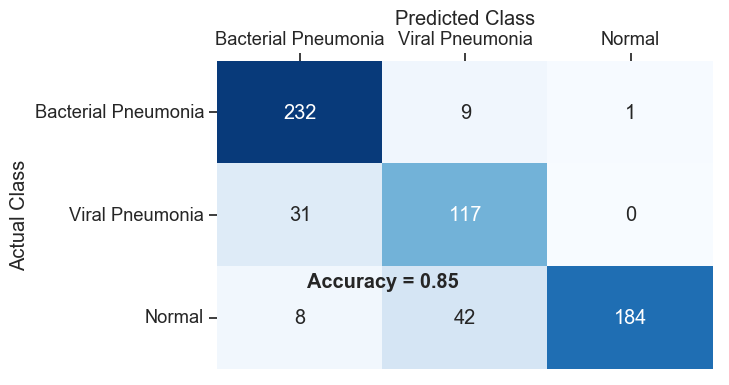
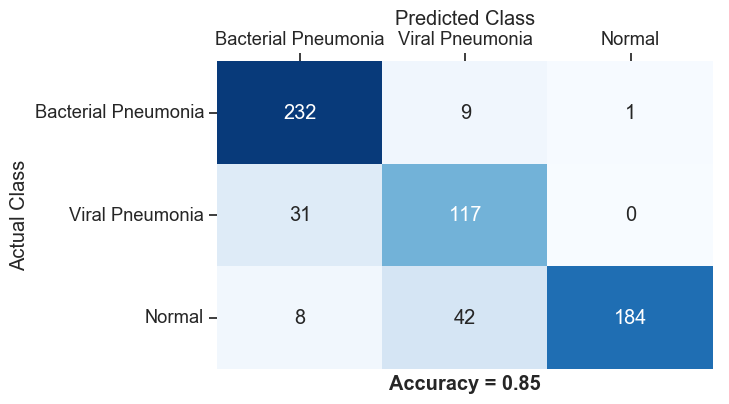
updated utilities model evaluation script

diff --git a/code/utils_model_evaluation.py b/code/utils_model_evaluation.py
@@ -69,8 +69,8 @@ def get_confusion_matrix_heatmap_figure(df_cm):
 
     # show the accuracy score in a text box
     accuracy = np.trace(df_cm.values) / np.sum(df_cm.values)
-    ax.text(1,
-            2.2,
+    ax.text(df_cm.shape[0] / 2,
+            df_cm.shape[0] + 0.2,
             f'Accuracy = {accuracy:.2f}',
             fontdict={'fontweight': 'bold'},
             ha='center')
